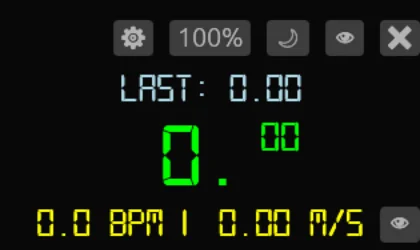
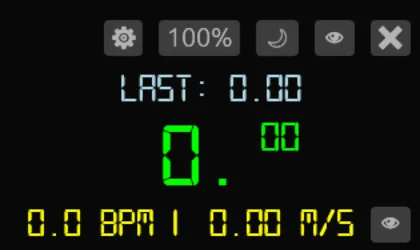
right padding

Changed region(s): [[0.2476, 0.056, 1.0, 0.224], [0.4952, 0.812, 1.0, 0.98], [0.0619, 0.812, 0.4643, 0.952]]

diff --git a/src/gui.rs b/src/gui.rs
@@ -61,6 +61,7 @@ impl eframe::App for StopwatchApp {
         ui.vertical_centered(|ui| {
             ui.add_space(10.0);
             ui.with_layout(egui::Layout::right_to_left(egui::Align::TOP), |ui| {
+                ui.add_space(5.0);
                 if has_focus && ui.button("🗙").clicked() {
                     ui.ctx().send_viewport_cmd(egui::ViewportCommand::Close);
                 }
@@ -190,6 +191,7 @@ impl eframe::App for StopwatchApp {
             });
             ui.add_space(15.0);
             ui.with_layout(egui::Layout::right_to_left(egui::Align::TOP), |ui| {
+                ui.add_space(5.0);
                 ui.allocate_ui(egui::vec2(30.0, 20.0), |ui| {
                     if has_focus && ui.button("👁").clicked() {
                         config.toggle_hide_tap();